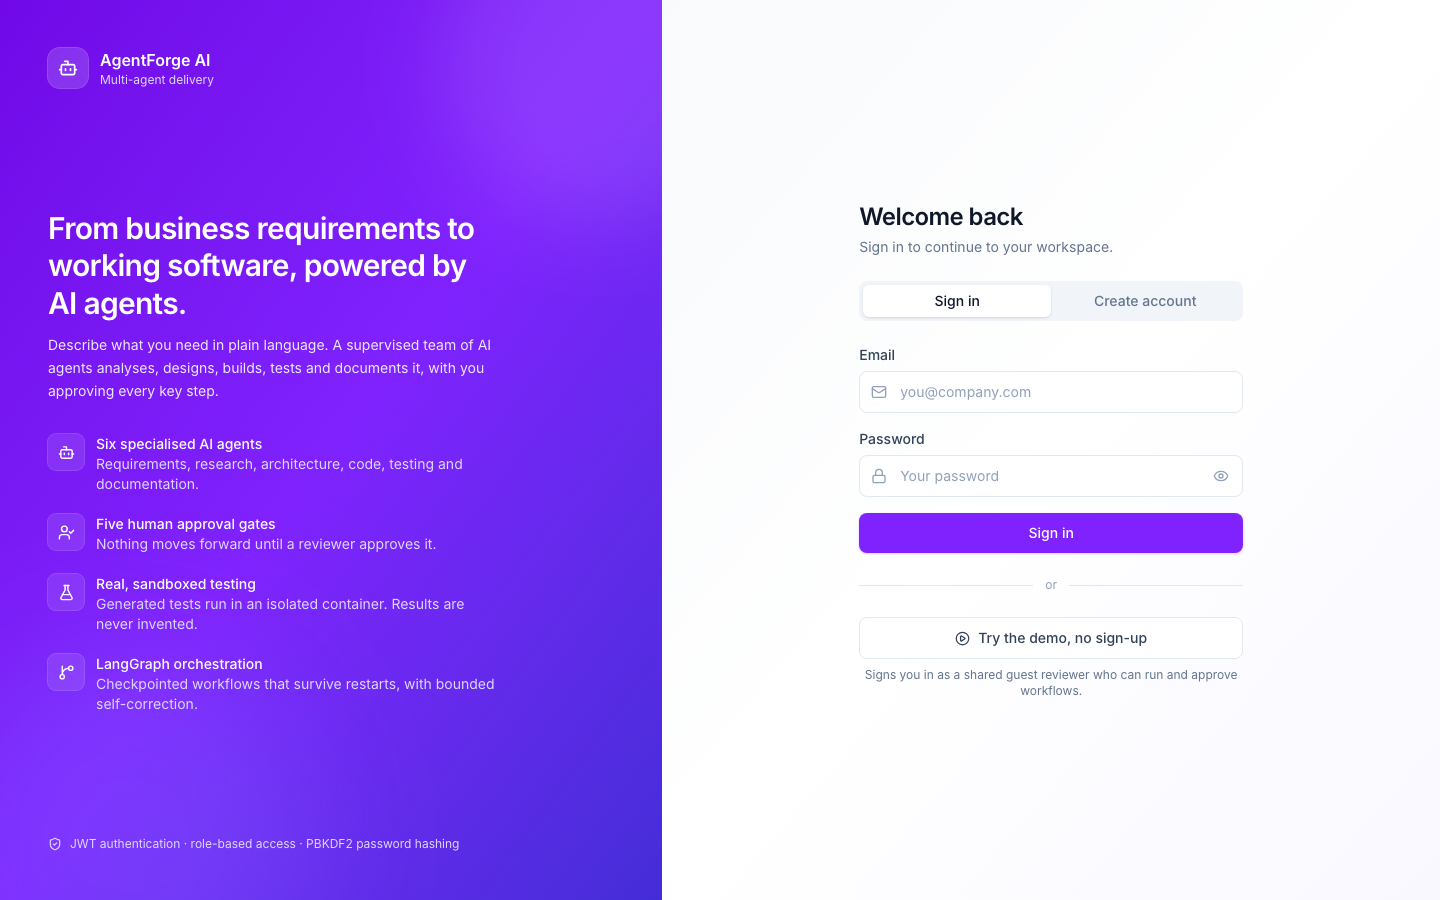
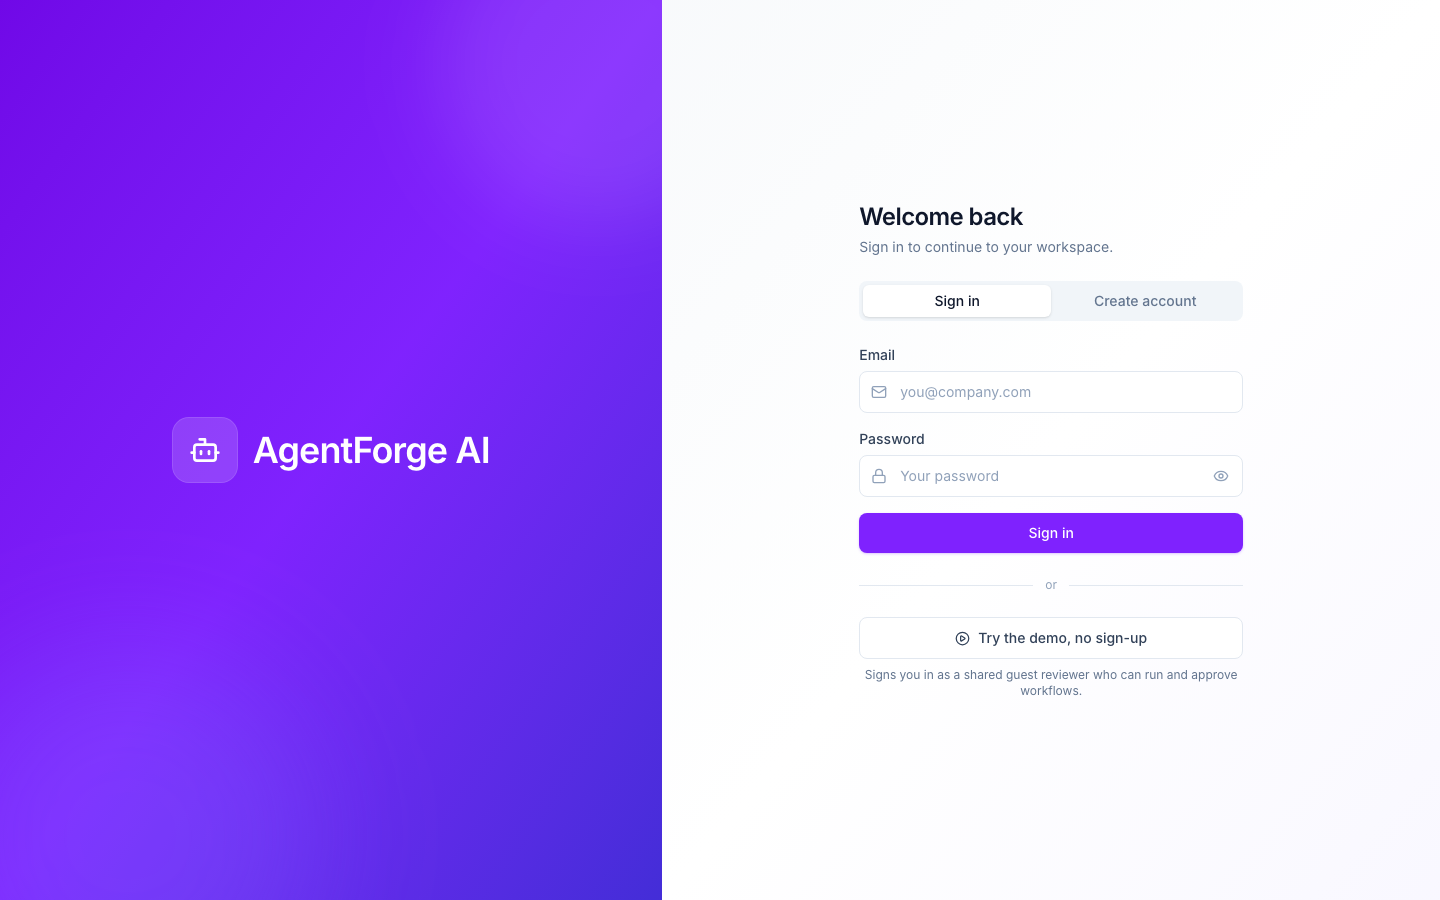
Simplify login brand panel to the AgentForge AI name only

diff --git a/frontend/src/pages/Login.jsx b/frontend/src/pages/Login.jsx
@@ -1,15 +1,8 @@
-import { Bot, Eye, EyeOff, FlaskConical, GitBranch, Lock, Mail, PlayCircle, ShieldCheck, User, UserCheck } from "lucide-react";
+import { Bot, Eye, EyeOff, Lock, Mail, PlayCircle, User } from "lucide-react";
 import { useState } from "react";
 import { Button, ErrorBanner } from "../components/ui";
 import { useAuth } from "../context/AuthContext";
 import { errorMessage } from "../services/api";
-
-const HIGHLIGHTS = [
-  { icon: Bot, title: "Six specialised AI agents", text: "Requirements, research, architecture, code, testing and documentation." },
-  { icon: UserCheck, title: "Five human approval gates", text: "Nothing moves forward until a reviewer approves it." },
-  { icon: FlaskConical, title: "Real, sandboxed testing", text: "Generated tests run in an isolated container. Results are never invented." },
-  { icon: GitBranch, title: "LangGraph orchestration", text: "Checkpointed workflows that survive restarts, with bounded self-correction." },
-];
 
 const fieldBase =
   "w-full rounded-lg border border-slate-200 bg-white py-2.5 pl-10 pr-3 text-sm text-slate-900 placeholder:text-slate-400 focus:border-violet-400 focus:outline-none focus:ring-4 focus:ring-violet-100 transition";
@@ -61,40 +54,14 @@ export default function Login() {
 
   return (
     <div className="flex min-h-full bg-white">
-      {/* Product story (hidden on small screens) */}
-      <aside className="relative hidden w-[46%] flex-col justify-between overflow-hidden bg-gradient-to-br from-violet-700 via-violet-600 to-indigo-700 p-12 text-white lg:flex">
+      {/* Brand panel (hidden on small screens) */}
+      <aside className="relative hidden w-[46%] items-center justify-center overflow-hidden bg-gradient-to-br from-violet-700 via-violet-600 to-indigo-700 p-12 text-white lg:flex">
         <div aria-hidden className="pointer-events-none absolute -right-24 -top-24 h-80 w-80 rounded-full bg-white/10 blur-2xl" />
         <div aria-hidden className="pointer-events-none absolute -bottom-32 -left-16 h-96 w-96 rounded-full bg-indigo-400/20 blur-3xl" />
-
-        <div className="relative flex items-center gap-3">
-          <div className="flex h-10 w-10 items-center justify-center rounded-xl bg-white/15 ring-1 ring-white/25"><Bot size={20} /></div>
-          <div>
-            <p className="font-semibold">AgentForge AI</p>
-            <p className="text-xs text-violet-200">Multi-agent delivery</p>
-          </div>
+        <div className="relative flex items-center gap-4">
+          <div className="flex h-16 w-16 items-center justify-center rounded-2xl bg-white/15 ring-1 ring-white/25"><Bot size={32} /></div>
+          <p className="text-4xl font-semibold tracking-tight">AgentForge AI</p>
         </div>
-
-        <div className="relative max-w-md">
-          <h2 className="text-3xl font-semibold leading-tight tracking-tight">From business requirements to working software, powered by AI agents.</h2>
-          <p className="mt-3 text-sm leading-relaxed text-violet-100">
-            Describe what you need in plain language. A supervised team of AI agents analyses, designs, builds, tests and documents it, with you approving every key step.
-          </p>
-          <ul className="mt-8 space-y-5">
-            {HIGHLIGHTS.map(({ icon: Icon, title, text }) => (
-              <li key={title} className="flex gap-3">
-                <span className="flex h-9 w-9 shrink-0 items-center justify-center rounded-lg bg-white/10 ring-1 ring-white/20"><Icon size={17} /></span>
-                <span>
-                  <span className="block text-sm font-medium">{title}</span>
-                  <span className="block text-sm text-violet-200">{text}</span>
-                </span>
-              </li>
-            ))}
-          </ul>
-        </div>
-
-        <p className="relative flex items-center gap-2 text-xs text-violet-200">
-          <ShieldCheck size={14} /> JWT authentication · role-based access · PBKDF2 password hashing
-        </p>
       </aside>
 
       {/* Sign-in form */}
@@ -102,10 +69,7 @@ export default function Login() {
         <div className="w-full max-w-sm">
           <div className="mb-8 flex items-center gap-3 lg:hidden">
             <div className="flex h-10 w-10 items-center justify-center rounded-xl bg-violet-600 text-white"><Bot size={20} /></div>
-            <div>
-              <p className="font-semibold text-slate-900">AgentForge AI</p>
-              <p className="text-xs text-slate-500">Multi-agent delivery</p>
-            </div>
+            <p className="text-lg font-semibold text-slate-900">AgentForge AI</p>
           </div>
 
           <h1 className="text-2xl font-semibold tracking-tight text-slate-900">{isLogin ? "Welcome back" : "Create your account"}</h1>
